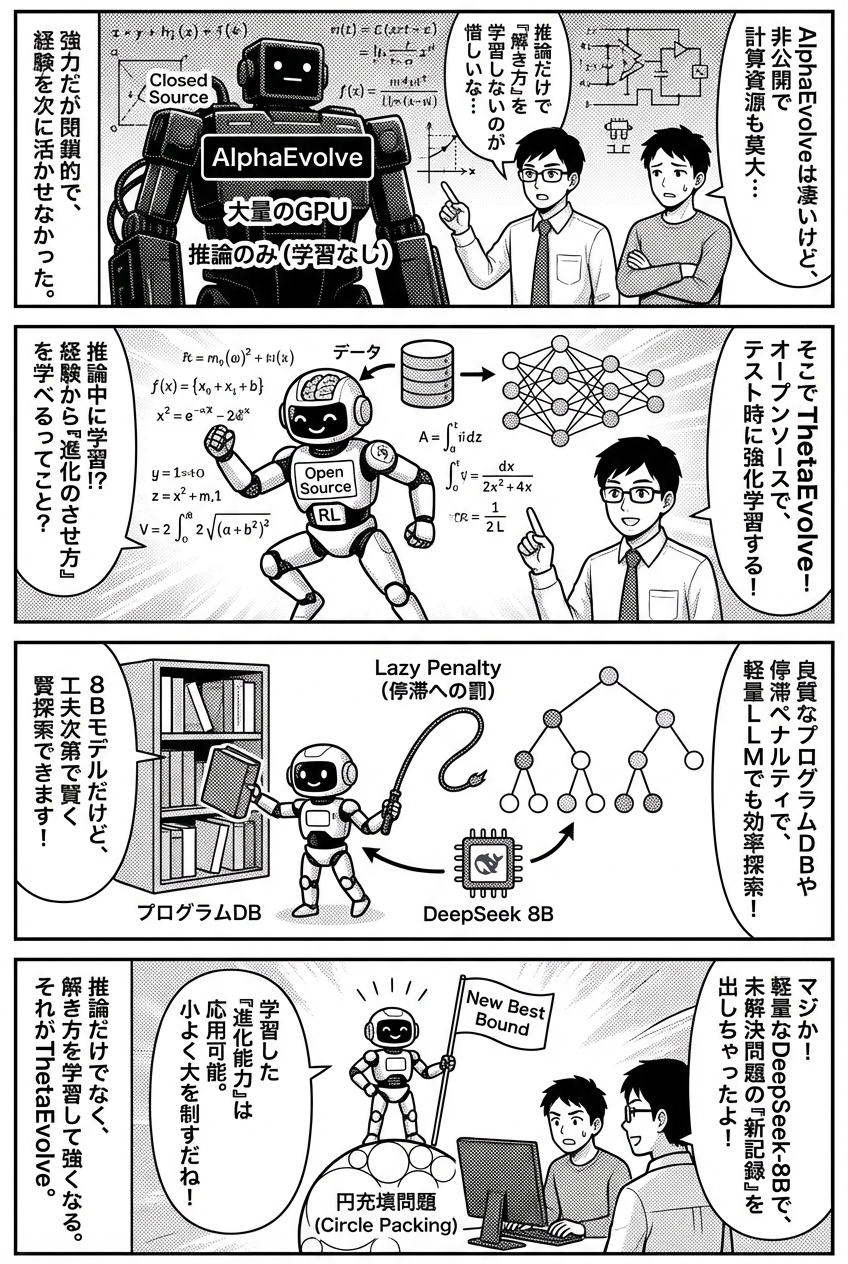
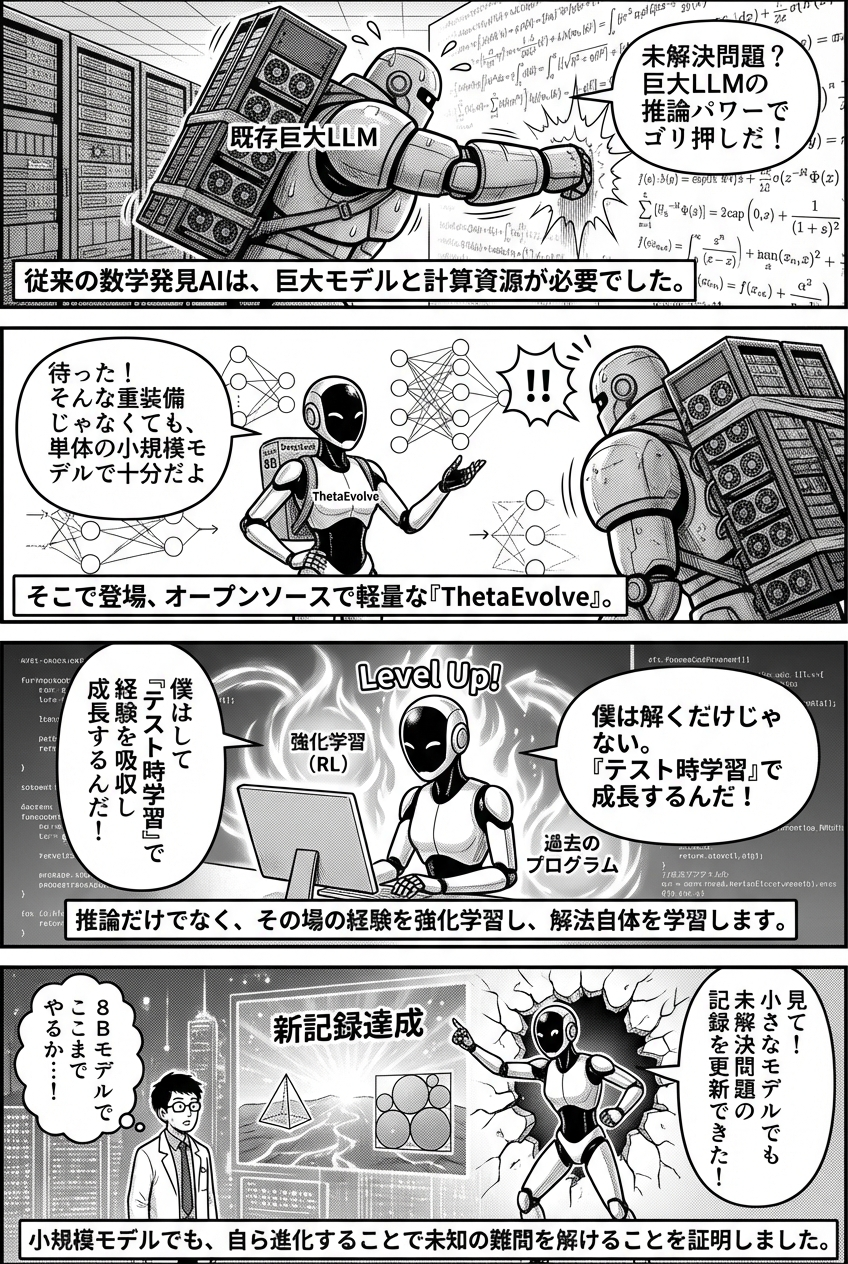
Add auto manga article for 2511.23473v1

diff --git a/articles/2025-12-02-arxiv-2511-23473v1.md b/articles/2025-12-02-arxiv-2511-23473v1.md
@@ -1,0 +1,78 @@
+---
+title: "【論文漫画】ThetaEvolve: Test-time Learning on Open Problems"
+emoji: "📘"
+type: "tech"
+topics: ["arxiv", "論文要約", "gemini", "nano-banana-pro"]
+published: true
+---
+
+この記事は、arXiv の論文を日本語4コマ漫画として要約したものです。
+
+> **論文情報**  
+> - arXiv ID: `2511.23473v1`  
+> - タイトル: ThetaEvolve: Test-time Learning on Open Problems  
+> - 著者: Yiping Wang, Shao-Rong Su, Zhiyuan Zeng, Eva Xu, Liliang Ren, Xinyu Yang, Zeyi Huang, Xuehai He, Luyao Ma, Baolin Peng, Hao Cheng, Pengcheng He, Weizhu Chen, Shuohang Wang, Simon Shaolei Du, Yelong Shen  
+> - arXiv: https://arxiv.org/abs/2511.23473v1  
+> - PDF: https://arxiv.org/pdf/2511.23473v1.pdf
+
+---
+
+## 漫画（4コマ）
+
+![論文要約4コマ](/images/arxiv-2511-23473v1.png)
+
+---
+
+## 解説（テキスト）
+
+以下は、画像生成に用いた脚本（LLM による自動生成）です。一部、画像化の過程で省略・簡略化されている場合があります。
+
+技術系エンジニアに向けた、論文「ThetaEvolve」の4コマ漫画脚本です。
+
+---
+
+## タイトル：小さくても学習する天才！ThetaEvolve
+
+### 1コマ目
+*   **状況描写**
+    *   背景に巨大で重厚なロボット（「AlphaEvolve」や「既存の巨大LLM」と書かれている）がいる。
+    *   ロボットは大量のサーバーやGPUを背負っており、少し動きが鈍そうだがパワーはある感じ。
+    *   ロボットが未解決の数学問題（数式が書かれた壁）に向かってパンチを繰り出している。
+*   **セリフ**
+    *   巨大ロボ「未解決問題？ 巨大LLM軍団の推論パワーでゴリ押しだ！」
+*   **ナレーション**
+    *   これまでの数学発見AIは、巨大なモデルと大量の計算リソースが必要でした。
+
+### 2コマ目
+*   **状況描写**
+    *   手前に、小さくて身軽なアンドロイド（「ThetaEvolve」）が登場。
+    *   彼は「DeepSeek 8B」と書かれた小さなリュックを背負っているだけ。
+    *   巨大ロボが「えっ、そんな軽装備で？」と驚いている。
+*   **セリフ**
+    *   Theta「待った！ そんな重装備じゃなくても、単体の小規模モデルで十分だよ」
+*   **ナレーション**
+    *   そこで登場したのが、オープンソースで軽量な「ThetaEvolve」です。
+
+### 3コマ目
+*   **状況描写**
+    *   ThetaEvolveが問題を解いているシーン。
+    *   彼は問題を解きながら、同時に「参考書（経験）」を読んでレベルアップしている（頭上に「Level Up!」の文字）。
+    *   背景には「強化学習（RL）」や「過去のプログラム」がオーラのように漂う。
+*   **セリフ**
+    *   Theta「僕は解くだけじゃない。『テスト時学習』で経験を吸収し成長するんだ！」
+*   **ナレーション**
+    *   推論するだけでなく、その場での経験を強化学習し、解法自体を学習します。
+
+### 4コマ目
+*   **状況描写**
+    *   ThetaEvolveが、壁（未解決問題）を突き破って向こう側の景色（「新記録達成」）を見せている。
+    *   「円充填問題」などの図形がキラキラ輝いている。
+    *   エンジニア（読者）が「8Bモデルでここまでやるか…！」と感心している。
+*   **セリフ**
+    *   Theta「見て！ 小さなモデルでも未解決問題の記録を更新できたよ！」
+*   **ナレーション**
+    *   小規模モデルでも、自ら進化することで未知の難問を解けることを証明しました。
+
+---
+
+※ 本記事の漫画画像は Google Gemini / Nano Banana Pro を用いて自動生成しています。
